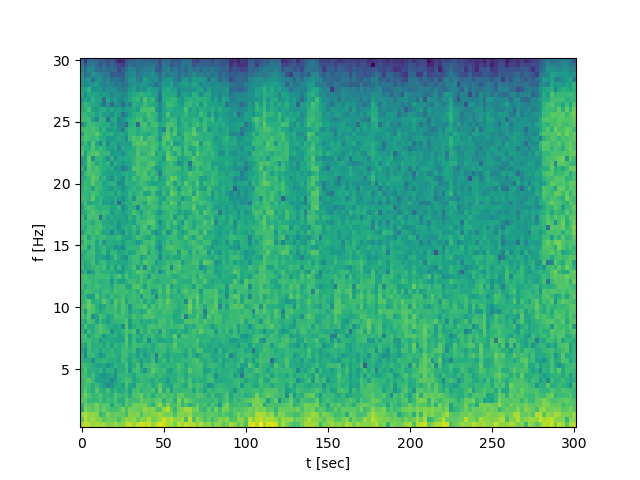
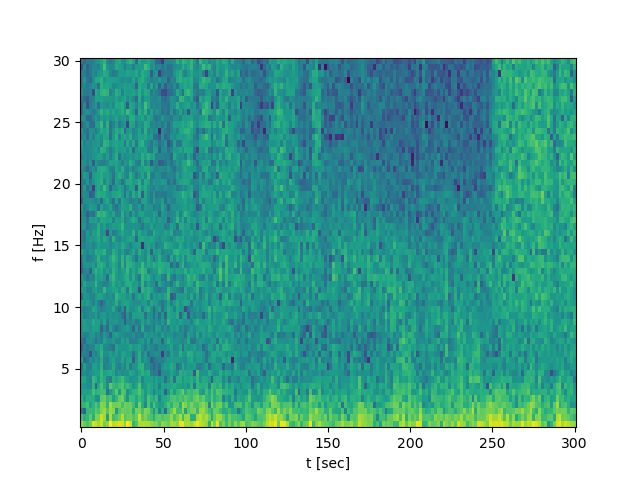
working autoencoder

diff --git a/physionet2023/modeling/encoders/convEncoderTST.py b/physionet2023/modeling/encoders/convEncoderTST.py
@@ -6,8 +6,10 @@ from sklearn.model_selection import train_test_split
 from torchmetrics.classification import BinaryAUROC, BinaryF1Score
 
 from physionet2023 import *
-from physionet2023.dataProcessing.patientDatasets import MetadataOnlyDataset
-from physionet2023.dataProcessing.recordingDatasets import SpectrogramDataset
+from physionet2023.dataProcessing.patientDatasets import (
+    MetadataOnlyDataset,
+    SpectrogramDataset,
+)
 from physionet2023.modeling.encoders.tuhSpectrogramAutoencoder import LitAutoEncoder
 from physionet2023.modeling.scoringUtil import CompetitionScore
 
@@ -27,7 +29,7 @@ class ConvEncoderTST(pl.LightningModule):
             self.autoencoder = LitAutoEncoder()
 
         self.tst = TSTransformerEncoderClassiregressor(
-            **tst_config.generate_model_params(), feat_dim=128, max_len=364
+            **tst_config.generate_model_params(), feat_dim=4, max_len=588
         )
 
         self.scorers = [
@@ -96,17 +98,18 @@ class ConvEncoderTST(pl.LightningModule):
 
 def config_factory():
     problem_params = {
-        "lr": 1e-3,
-        "dropout": 0.1,
-        "d_model_multiplier": 8,
-        "num_layers": 3,
-        "n_heads": 16,
-        "dim_feedforward": 256,
+        "lr": 0.0008628517041227239,
+        "dropout": 0.4192821526246893,
+        "d_model_multiplier": 1,
+        "num_layers": 6,
+        "n_heads": 8,
+        "dim_feedforward": 189,
+        "batch_size": 64,
         "pos_encoding": "learnable",
-        "activation": "gelu",
+        "activation": "relu",
         "norm": "LayerNorm",
-        "optimizer_name": "AdamW",
-        "batch_size": 32,
+        "optimizer_name": "Adam",
+        "weight_decay": 1e-05,
     }
 
     tst_config = PhysionetConfig(
@@ -123,10 +126,8 @@ def single_dl_factory(
         root_folder=data_path,
         patient_ids=pids,
         label_type=tst_config.label_type,
-        preprocess=True,
         # last_only=True,
         # include_static=False,
-        quality_cutoff=0.0,
         **ds_args,
     )
 
@@ -190,7 +191,7 @@ if __name__ == "__main__":
             checkpoint_saver,
         ],
         enable_checkpointing=True,
-        val_check_interval=0.1,
+        # val_check_interval=0.1,
     )
     trainer.fit(model=model, train_dataloaders=train_dl, val_dataloaders=valid_dl)
     trainer.test(

diff --git a/physionet2023/modeling/encoders/encoderClassifier.py b/physionet2023/modeling/encoders/encoderClassifier.py
@@ -5,9 +5,8 @@ from sklearn.model_selection import train_test_split
 from torchmetrics.classification import BinaryAUROC
 
 from physionet2023 import LabelType, config
-from physionet2023.dataProcessing.patientDatasets import MetadataOnlyDataset
-from physionet2023.dataProcessing.recordingDatasets import (
-    RecordingDataset,
+from physionet2023.dataProcessing.patientDatasets import (
+    MetadataOnlyDataset,
     SpectrogramDataset,
 )
 from physionet2023.modeling.encoders.tuhSpectrogramAutoencoder import LitAutoEncoder
@@ -19,17 +18,15 @@ class encoderClassifier(pl.LightningModule):
         super().__init__()
 
         self.autoencoder = LitAutoEncoder.load_from_checkpoint(
-            "./cache/encoder_models/checkpoints/epoch=14-step=13995.ckpt"
+            "./cache/tuh_encoder.ckpt"
         )
         self.autoencoder.freeze()
 
         # TODO: need to reduce reliance on magic numbers here
         self.fc = torch.nn.Sequential(
-            torch.nn.Linear(41344, 1000),
+            torch.nn.Linear(2352, 1000),
             torch.nn.ReLU(),
-            torch.nn.Linear(1000, 100),
-            torch.nn.ReLU(),
-            torch.nn.Linear(100, n_classes),
+            torch.nn.Linear(1000, n_classes),
             torch.nn.Sigmoid(),
         )
 
@@ -64,7 +61,7 @@ class encoderClassifier(pl.LightningModule):
             s.reset()
 
     def configure_optimizers(self):
-        optimizer = torch.optim.Adam(self.parameters(), lr=5e-4)
+        optimizer = torch.optim.Adam(self.parameters(), lr=1e-6)
         return optimizer
 
     def forward(self, X):
@@ -78,8 +75,8 @@ def single_dl_factory(pids: list, data_path: str = "./data", **ds_args):
         root_folder=data_path,
         patient_ids=pids,
         label_type=LabelType.SINGLECLASS,
-        preprocess=True,
-        last_only=True,
+        # preprocess=True,
+        # last_only=True,
         **ds_args,
     )
 

diff --git a/physionet2023/modeling/encoders/tuhSpectrogramAutoencoder.py b/physionet2023/modeling/encoders/tuhSpectrogramAutoencoder.py
@@ -18,19 +18,19 @@ class LitAutoEncoder(pl.LightningModule):
     def __init__(self):
         super().__init__()
 
-        self.encoder = torch.nn.Sequential(  # like the Composition layer you built
-            torch.nn.Conv2d(18, 32, 3, stride=2, padding=1),
+        self.encoder = torch.nn.Sequential(
+            # Input: (4, 58, 171)
+            torch.nn.Conv2d(4, 16, 3, padding=1),
             torch.nn.ReLU(),
-            torch.nn.Conv2d(32, 64, 3, stride=2, padding=1),
+            torch.nn.MaxPool2d(2, 2),
+            torch.nn.Conv2d(16, 4, 3, padding=1),
             torch.nn.ReLU(),
-            torch.nn.Conv2d(64, 128, 7),
+            torch.nn.MaxPool2d(2, 2),
         )
         self.decoder = torch.nn.Sequential(
-            torch.nn.ConvTranspose2d(128, 64, 7),
+            torch.nn.ConvTranspose2d(4, 16, 2, stride=2, output_padding=(1, 1)),
             torch.nn.ReLU(),
-            torch.nn.ConvTranspose2d(64, 32, 3, stride=2, padding=1, output_padding=1),
-            torch.nn.ReLU(),
-            torch.nn.ConvTranspose2d(32, 18, 3, stride=2, padding=(1, 2)),
+            torch.nn.ConvTranspose2d(16, 4, 2, stride=2, output_padding=(0, 1)),
             # torch.nn.Sigmoid()
         )
 

diff --git a/physionet2023/modeling/convTest.py b/physionet2023/modeling/convTest.py
@@ -1,0 +1,39 @@
+import torch
+
+
+class TestModel(torch.nn.Module):
+    def __init__(self):
+        super().__init__()
+
+        self.encoder = torch.nn.Sequential(  # like the Composition layer you built
+            # Input: (4, 58, 171)
+            torch.nn.Conv2d(4, 16, 3, padding=1),
+            torch.nn.ReLU(),
+            torch.nn.MaxPool2d(2, 2),
+            torch.nn.Conv2d(16, 4, 3, padding=1),
+            torch.nn.ReLU(),
+            torch.nn.MaxPool2d(2, 2),
+        )
+        self.decoder = torch.nn.Sequential(
+            torch.nn.ConvTranspose2d(4, 16, 2, stride=2, output_padding=(1, 1)),
+            torch.nn.ReLU(),
+            torch.nn.ConvTranspose2d(16, 4, 2, stride=2, output_padding=(0, 1)),
+            torch.nn.Sigmoid()
+            # torch.nn.Sigmoid()
+        )
+
+    def forward(self, X):
+        z = self.encoder(X)
+        print(f"encoded dim: {z.shape}")
+        xhat = self.decoder(z)
+        print(f"Final dim: {xhat.shape}")
+
+        return xhat
+
+
+if __name__ == "__main__":
+    X = torch.zeros((128, 4, 58, 171))
+    m = TestModel()
+    m(X)
+
+    print("done")

diff --git a/physionet2023/dataProcessing/buildTuhPsdCache.py b/physionet2023/dataProcessing/buildTuhPsdCache.py
@@ -26,19 +26,19 @@ if __name__ == "__main__":
         if this_edf.shape == torch.Size([]):
             continue
 
-        assert this_edf.shape[-1] >= 30000
+        assert this_edf.shape[-1] >= (5 * 60 * 128)
 
-        overflow = this_edf.shape[-1] - 30000
+        overflow = this_edf.shape[-1] - (5 * 60 * 128)
         left_margin = int(overflow / 2)
         right_margin = this_edf.shape[-1] - left_margin
 
         this_edf = this_edf[:, left_margin:right_margin]
 
-        assert this_edf.shape[-1] == 30000
+        assert this_edf.shape[-1] == (5 * 60 * 128)
 
         spectrogram = SpectrogramDataset._to_spectrogram(this_edf)
 
-        assert spectrogram.shape == torch.Size([4, 75, 133])
+        assert spectrogram.shape == torch.Size([4, 58, 171])
 
         total_spectrograms += 1
         torch.save(spectrogram, f"./cache/tuh_cache/{idx:05d}.pt")

diff --git a/physionet2023/dataProcessing/TuhDatasets.py b/physionet2023/dataProcessing/TuhDatasets.py
@@ -183,7 +183,7 @@ class TuhPatientDataset(torch.utils.data.Dataset):
         eeg_waveform, sfreq = self._get_physionet_channels(all_possible_edfs[0])
 
         # TODO: utility frequency of 50 Hz is just an educated guess
-        processed_signal = preprocess_data(
+        processed_signal, f = preprocess_data(
             eeg_waveform, sampling_frequency=sfreq, utility_frequency=50.0
         )
 
@@ -207,6 +207,8 @@ class TuhBestRecordingDataset(TuhPatientDataset):
                     data, f = preprocess_data(
                         edf, sampling_frequency=sfreq, utility_frequency=50.0
                     )
+
+                    assert f == 128.0
 
                     return data
 

diff --git a/physionet2023/dataProcessing/patientDatasets.py b/physionet2023/dataProcessing/patientDatasets.py
@@ -234,7 +234,7 @@ class SpectrogramDataset(PatientDataset):
 
         # deal with -inf
         if (X == -np.inf).all():
-            print(f"[Allzero Warn] {selected_record} random sample has no data")
+            # print(f"[Allzero Warn] {selected_record} random sample has no data")
             X = np.zeros_like(X)
         elif (X == -np.inf).any():
             X[X == -np.inf] = X[X != -np.inf].min()
@@ -256,9 +256,8 @@ def draw_sample_spectrogram(idx: int):
 
 
 if __name__ == "__main__":
-    import sys
 
-    draw_sample_spectrogram(int(sys.argv[1]))
+    draw_sample_spectrogram(10)
     # ds = SpectrogramDataset()
 
     # for X, y in ds:

diff --git a/helper_code.py b/helper_code.py
@@ -472,12 +472,12 @@ def preprocess_data(data, sampling_frequency, utility_frequency):
         and passband[0] <= utility_frequency <= passband[1]
     ):
         data = mne.filter.notch_filter(
-            data, sampling_frequency, utility_frequency, n_jobs=4, verbose="error"
+            data, sampling_frequency, utility_frequency, n_jobs=1, verbose="error"
         )
 
     # Apply a bandpass filter.
     data = mne.filter.filter_data(
-        data, sampling_frequency, passband[0], passband[1], n_jobs=4, verbose="error"
+        data, sampling_frequency, passband[0], passband[1], n_jobs=1, verbose="error"
     )
 
     # Resample the data.

diff --git a/physionet2023/dataProcessing/recordingDatasets.py b/physionet2023/dataProcessing/recordingDatasets.py
@@ -162,11 +162,11 @@ class SpectrogramDataset(RecordingDataset):
             self.sample_len = self.dims[1]
 
     @classmethod
-    def _to_spectrogram(cls, eeg_data):
+    def _to_spectrogram(cls, eeg_data, base_freq=128.0):
         spectrograms = list()
 
         for channel_idx in range(0, eeg_data.shape[0]):
-            f, t, s = spectrogram(eeg_data[channel_idx, :], 100.0)
+            f, t, s = spectrogram(eeg_data[channel_idx, :], base_freq)
             freq_filter = np.logical_and(f > cls.f_min, f < cls.f_max)
             s = s[freq_filter]
             f = f[freq_filter]
